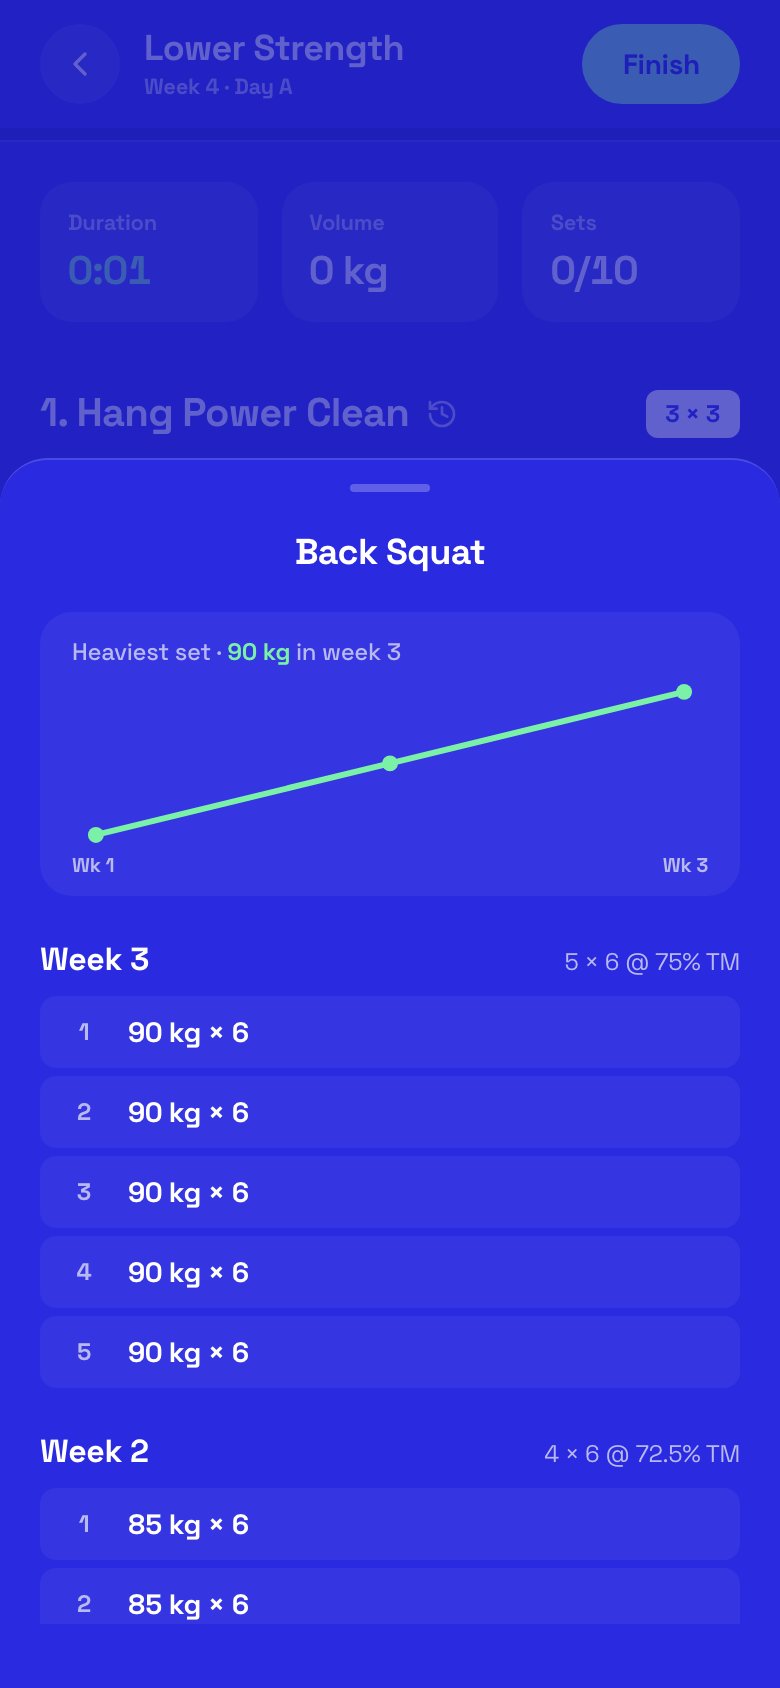
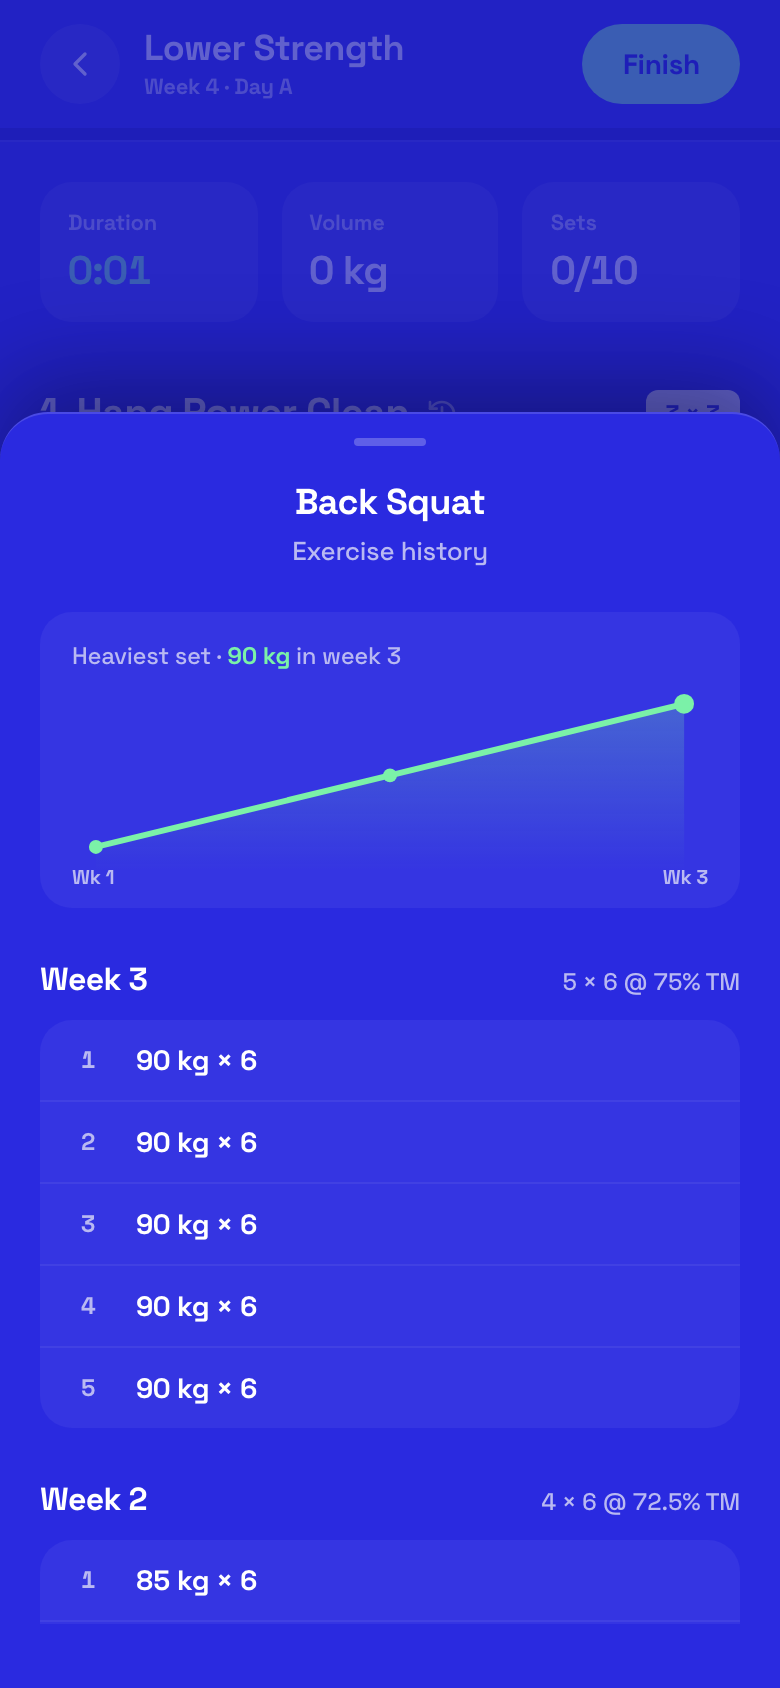
V5: bottom sheets — won blind A/B, all criteria met
V5 bottom-sheet polish complete; full suite green (48/48), tsc clean, shots in docs/gauntlet/shots/cand-v5-r1/.

Shared anatomy (BottomSheet.tsx): added an optional subtitle slot below the centered title (accessible name stays composed as "title · subtitle", so F2's `Rest timer · Hang Power Clean` dialog selector still matches exactly); tightened the grabber, unified header spacing, and added a so

diff --git a/src/pages/WorkoutPage.tsx b/src/pages/WorkoutPage.tsx
@@ -389,7 +389,7 @@ export default function WorkoutPage() {
         onClose={() => setSetTypeTarget(null)}
         title="Select set type"
       >
-        <div className="space-y-1">
+        <div className="space-y-2">
           {SET_TYPES.map((option) => {
             const currentType = setTypeTarget
               ? completedSets[`${setTypeTarget.exercise.id}-${setTypeTarget.setIndex}`]?.setType
@@ -403,16 +403,23 @@ export default function WorkoutPage() {
                   if (setTypeTarget) setSetType(setTypeTarget.exercise.id, setTypeTarget.setIndex, option.type);
                 }}
                 className={cn(
-                  'w-full flex items-center gap-4 px-4 py-3.5 rounded-2xl text-left transition-colors',
-                  selected ? 'bg-white/15' : 'hover:bg-white/10'
+                  'w-full flex items-center gap-3.5 px-3 py-2.5 rounded-2xl text-left transition-colors',
+                  selected ? 'bg-white/15' : 'bg-white/5 hover:bg-white/10'
                 )}
               >
-                <span className={cn('w-6 text-center text-lg font-bold', option.color)}>{option.letter}</span>
-                <span className="flex-1 min-w-0">
-                  <span className="block font-bold text-sm">{option.label}</span>
-                  <span className="block text-xs text-mist">{option.hint}</span>
+                <span
+                  className={cn(
+                    'w-10 h-10 rounded-xl bg-court-deep/60 flex items-center justify-center text-lg font-bold tabular-nums flex-shrink-0',
+                    option.color
+                  )}
+                >
+                  {option.letter}
                 </span>
-                {selected && <Check className="w-4 h-4 text-mint flex-shrink-0" strokeWidth={3} />}
+                <span className="flex-1 min-w-0">
+                  <span className="block font-bold text-[0.9375rem] leading-snug">{option.label}</span>
+                  <span className="block text-xs text-mist mt-0.5">{option.hint}</span>
+                </span>
+                {selected && <Check className="w-5 h-5 text-mint flex-shrink-0" strokeWidth={3} />}
               </button>
             );
           })}
@@ -423,7 +430,8 @@ export default function WorkoutPage() {
       <BottomSheet
         open={restTarget !== null}
         onClose={() => setRestTarget(null)}
-        title={restTarget ? `Rest timer · ${restTarget.name}` : 'Rest timer'}
+        title="Rest timer"
+        subtitle={restTarget?.name}
       >
         <div className="grid grid-cols-3 gap-2">
           {REST_OPTIONS.map((seconds) => {
@@ -439,7 +447,7 @@ export default function WorkoutPage() {
                   }
                 }}
                 className={cn(
-                  'py-3 rounded-xl font-bold text-sm tabular-nums transition-colors',
+                  'py-3.5 rounded-xl font-bold text-[0.9375rem] tabular-nums transition-colors',
                   selected ? 'bg-mint text-court-deep' : 'bg-white/10 hover:bg-white/20'
                 )}
               >
@@ -448,7 +456,7 @@ export default function WorkoutPage() {
             );
           })}
         </div>
-        <p className="text-xs text-mist text-center mt-4">
+        <p className="text-xs text-mist text-center leading-relaxed mt-4 px-4">
           Starts automatically when you tick a set. Saved for this exercise.
         </p>
 
@@ -483,6 +491,7 @@ export default function WorkoutPage() {
         open={historyTarget !== null}
         onClose={() => setHistoryTarget(null)}
         title={historyTarget?.name ?? 'History'}
+        subtitle="Exercise history"
       >
         {historyTarget && <ExerciseHistory exercise={historyTarget} completedSets={completedSets} />}
       </BottomSheet>
@@ -609,25 +618,25 @@ const ExerciseHistory: React.FC<{ exercise: Exercise; completedSets: ProgressMap
       {exercise.tracking === 'weighted' && chartPoints.length >= 2 && (
         <TopWeightChart points={chartPoints.map((e) => ({ week: e.weekNumber, weight: e.topWeight }))} />
       )}
-      <div className="space-y-5">
+      <div className="space-y-6">
         {recentFirst.map((entry) => (
           <div key={entry.weekNumber}>
-            <div className="flex items-baseline justify-between mb-1.5">
-              <p className="font-bold">Week {entry.weekNumber}</p>
-              <p className="text-xs text-mist">{entry.prescription}</p>
+            <div className="flex items-baseline justify-between mb-2">
+              <p className="font-bold tracking-[-0.02em]">Week {entry.weekNumber}</p>
+              <p className="text-xs font-medium text-mist tabular-nums">{entry.prescription}</p>
             </div>
-            <div className="space-y-1">
+            <div className="bg-white/5 rounded-2xl divide-y divide-white/[0.06] overflow-hidden">
               {entry.sets.map((s, i) => (
-                <div key={i} className="flex items-center gap-3 bg-white/5 rounded-lg px-3 py-2">
+                <div key={i} className="flex items-center gap-3.5 px-3.5 py-2.5">
                   <span
                     className={cn(
-                      'w-5 text-center text-xs font-bold',
+                      'w-5 text-center text-xs font-bold tabular-nums',
                       s.setType ? SET_TYPE_COLOR[s.setType] : 'text-mist'
                     )}
                   >
                     {s.setType ?? i + 1}
                   </span>
-                  <span className="text-sm font-bold tabular-nums">{s.label}</span>
+                  <span className="text-sm font-bold tabular-nums tracking-[-0.01em]">{s.label}</span>
                 </div>
               ))}
             </div>
@@ -649,17 +658,25 @@ const TopWeightChart: React.FC<{ points: { week: number; weight: number }[] }> =
   const x = (i: number) => PAD + (i / (points.length - 1)) * (W - PAD * 2);
   const y = (w: number) => H - PAD - ((w - min) / range) * (H - PAD * 2);
   const path = points.map((p, i) => `${i === 0 ? 'M' : 'L'}${x(i)},${y(p.weight)}`).join(' ');
+  const area = `${path} L${x(points.length - 1)},${H} L${x(0)},${H} Z`;
   const last = points[points.length - 1];
 
   return (
-    <div className="bg-white/5 rounded-2xl px-4 pt-3 pb-1 mb-5">
+    <div className="bg-white/5 rounded-2xl px-4 pt-3.5 pb-1 mb-6">
       <p className="text-xs text-mist font-medium">
         Heaviest set · <span className="text-mint font-bold">{last.weight} kg</span> in week {last.week}
       </p>
-      <svg viewBox={`0 0 ${W} ${H}`} className="w-full">
+      <svg viewBox={`0 0 ${W} ${H}`} className="w-full mt-1">
+        <defs>
+          <linearGradient id="top-weight-fill" x1="0" y1="0" x2="0" y2="1">
+            <stop offset="0%" stopColor="#7bf1a8" stopOpacity={0.25} />
+            <stop offset="100%" stopColor="#7bf1a8" stopOpacity={0} />
+          </linearGradient>
+        </defs>
+        <path d={area} fill="url(#top-weight-fill)" />
         <path d={path} fill="none" stroke="#7bf1a8" strokeWidth={3} strokeLinecap="round" strokeLinejoin="round" />
         {points.map((p, i) => (
-          <circle key={i} cx={x(i)} cy={y(p.weight)} r={4} fill="#7bf1a8" />
+          <circle key={i} cx={x(i)} cy={y(p.weight)} r={i === points.length - 1 ? 5 : 3.5} fill="#7bf1a8" />
         ))}
       </svg>
       <div className="flex justify-between text-[0.625rem] font-bold text-mist -mt-1 pb-1">

diff --git a/src/components/BottomSheet.tsx b/src/components/BottomSheet.tsx
@@ -6,8 +6,9 @@ export const BottomSheet: React.FC<{
   open: boolean;
   onClose: () => void;
   title: string;
+  subtitle?: string;
   children: React.ReactNode;
-}> = ({ open, onClose, title, children }) => {
+}> = ({ open, onClose, title, subtitle, children }) => {
   return (
     <AnimatePresence>
       {open && (
@@ -26,15 +27,20 @@ export const BottomSheet: React.FC<{
           />
           <motion.div
             role="dialog"
-            aria-label={title}
-            className="absolute bottom-0 inset-x-0 bg-court border-t border-white/15 rounded-t-3xl px-5 pt-3 pb-8 max-w-xl mx-auto"
+            aria-label={subtitle ? `${title} · ${subtitle}` : title}
+            className="absolute bottom-0 inset-x-0 bg-court border-t border-white/15 rounded-t-3xl px-5 pt-3 pb-8 max-w-xl mx-auto shadow-[0_-16px_48px_rgba(0,0,0,0.35)]"
             initial={{ y: '100%' }}
             animate={{ y: 0 }}
             exit={{ y: '100%' }}
             transition={{ type: 'spring', stiffness: 400, damping: 38 }}
           >
-            <div className="w-10 h-1 rounded-full bg-white/25 mx-auto mb-4" />
-            <h3 className="text-center font-bold text-lg tracking-[-0.02em] mb-4">{title}</h3>
+            <div className="w-9 h-1 rounded-full bg-white/25 mx-auto mb-4" />
+            <div className="text-center mb-5">
+              <h3 className="font-bold text-lg leading-snug tracking-[-0.02em]">{title}</h3>
+              {subtitle && (
+                <p className="text-[0.8125rem] font-medium text-mist mt-0.5 truncate">{subtitle}</p>
+              )}
+            </div>
             {children}
           </motion.div>
         </div>
